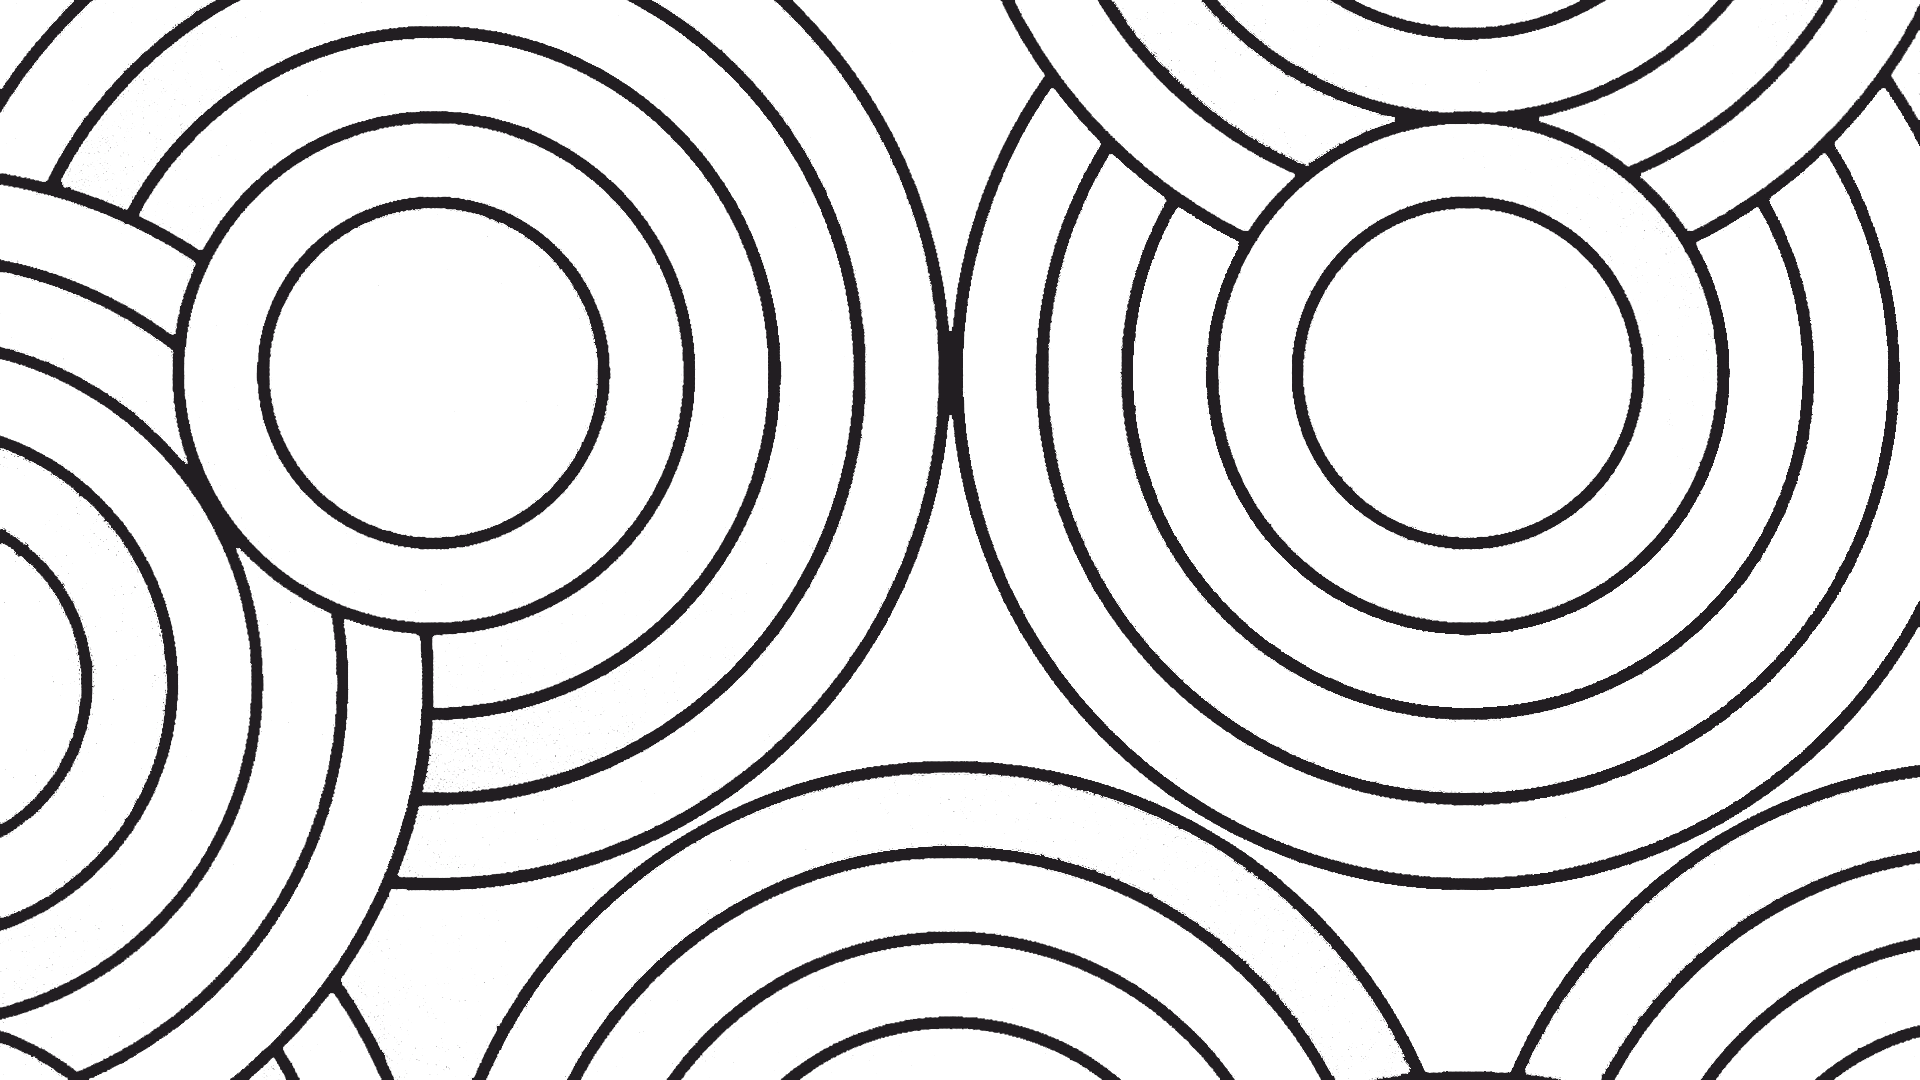
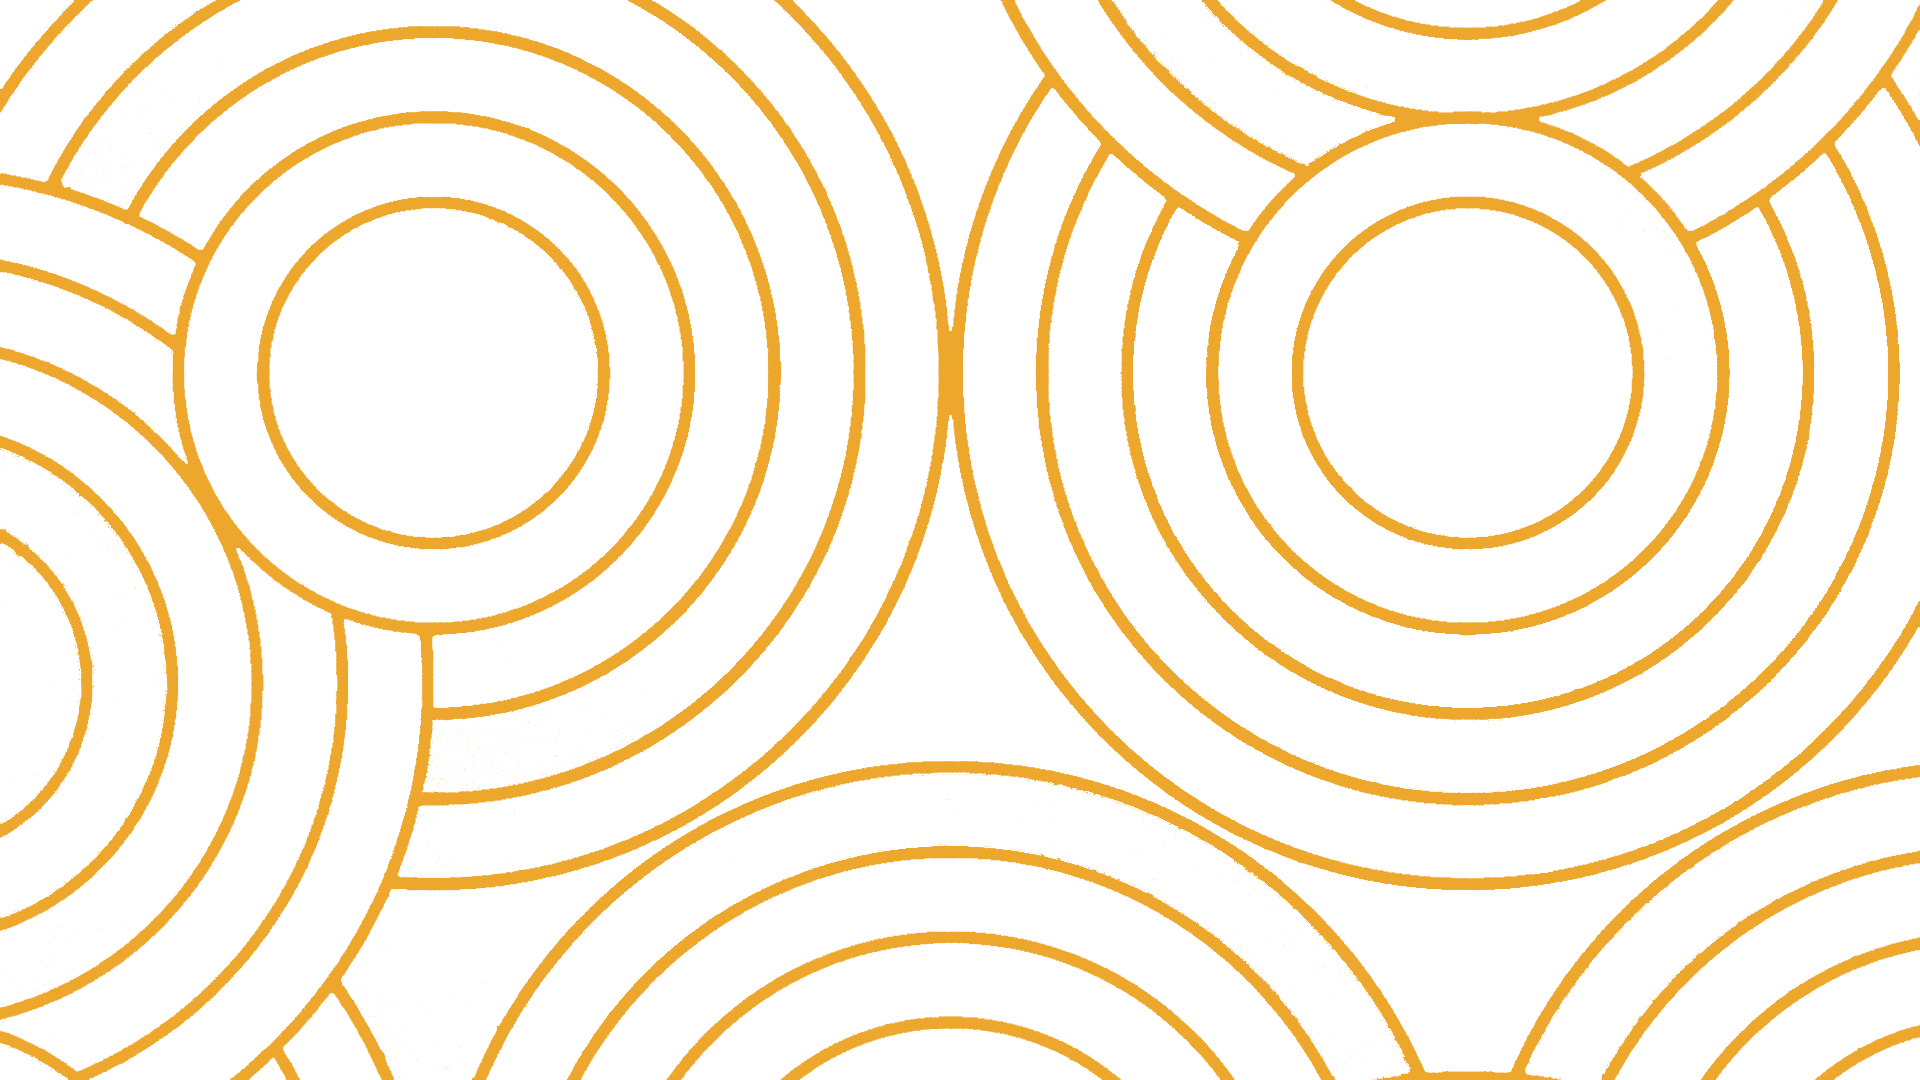
added maizer runner page

diff --git a/maize-runner.html b/maize-runner.html
@@ -1,0 +1,40 @@
+<!doctype html>
+
+<html lang="en">
+<head>
+  <meta charset="utf-8">
+
+  <title>The Hyde Away</title>
+  <meta name="description" content="You're safe here, until...">
+  <meta name="author" content="CKT">
+
+  <link rel="stylesheet" href="css/styles.css">
+  <script src="js/scripts.js"></script>
+
+  <link rel="stylesheet" href="https://cdnjs.cloudflare.com/ajax/libs/font-awesome/4.7.0/css/font-awesome.min.css">
+
+</head>
+
+<body>
+  <div class='container'>
+        <div class="topnav" id="myTopnav">
+            <ul class='nav-align-right'>
+                <li><a href="/index.html">Home</a></li>
+                <li><a href="#" class="active">Maize Runner</a></li>
+                <li><a href="www.thecodecavern.com">The Cavern</a></li>
+                <li><a href="#">Buy Tickets</a></li>
+            </ul>
+        </div>
+
+        <div class='maize-bkg'>
+            <div class='maize-txt'>
+                <p>If you become lost or confused in the Maize Runner, stay calm! Don't panic, help is on they way. Every Thursday morning we send a rescue team into the Maize Runner to bring everyone left from the previous weekend. They are highly trained and can usually locate over 2/3 of those left behind.</p>
+
+            </div>
+
+        </div>
+
+    </div>
+</body>
+
+</html>

diff --git a/css/styles.css b/css/styles.css
@@ -198,3 +198,36 @@ li {
     grid-column: 1/end;
     text-align: center;
 }
+
+.maize-bkg {
+    height: 1000px;
+    grid-column: 1/end;
+    grid-row: 2/end;
+    background-color: #221e22;
+    background-image: url(../imgs/maize-runner.png);
+    display: grid;
+    grid-template-columns: 25% auto 25%;
+}
+
+.maize-txt {
+    background-color: rgba(236, 167, 44, 1);
+    border: 15px solid #221e22;
+    border-radius: 5px;
+    height: 250px;
+    grid-column: 2;
+    align-self: center;
+    line-height: 250px;;
+}
+
+.maize-txt p {
+    text-align: center;
+    color: #221e22;
+    font-size: 22px;
+    font-weight: bold;
+    margin: 10px;
+    line-height: 1.5;
+    display: inline-block;
+    vertical-align: middle;
+    padding-left:5px;
+    padding-right:5px;
+}
